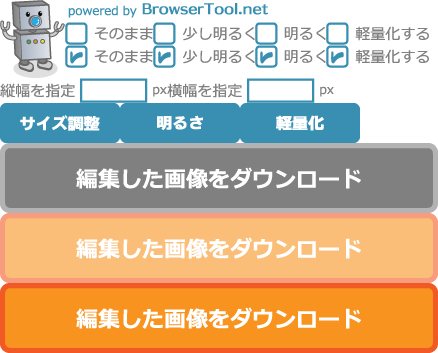
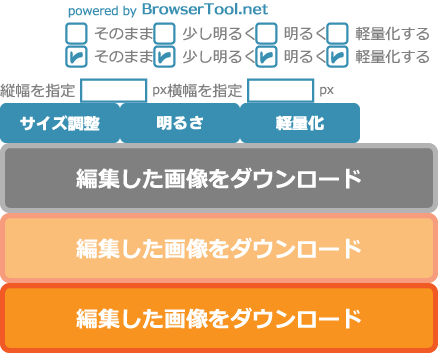
ロゴ変更

Changed region(s): [[0.0, 0.0, 0.1484, 0.2181]]

diff --git a/Image/Content/Css/Home/Index.min.css b/Image/Content/Css/Home/Index.min.css
@@ -1,1 +1,1 @@
-body,header,h1,h2,section,p,footer{margin:0;padding:0}.bg{background-image:url("../../Images/Home/images.png");background-repeat:no-repeat}body{border:20px solid #388eb1;border-width:20px 0 0}header{margin:0 0 50px;padding:0;background-color:#4dbcea}header div{width:640px;height:105px;margin:0 auto;position:relative}h1{position:absolute;top:45px;left:80px;color:#fff;font-size:24px}#logo{position:absolute;top:20px;left:10px;width:65px;height:78px}#powerdby{position:absolute;bottom:5px;right:10px;background-position:-65px 0;width:207px;height:22px}#tool_wrap{width:640px;margin:0 auto}#option_01{margin-bottom:30px}#option_01_title{display:inline-block;width:120px;height:40px;background-position:0 -103px}#size_no_change{background-position:-65px -45px;width:88px;height:23px;display:inline-block;margin:0 0 6px 30px;cursor:pointer;overflow:hidden}#size_no_change input{cursor:pointer;opacity:0}.textbox_wrap{position:relative;display:inline-block;width:167px;height:25px;margin:0 0 5px 25px}#textbox_width{background-position:-167px -78px}#textbox_height{background-position:0 -78px}.textbox_wrap input{position:absolute;top:3px;right:22px;width:60px;height:17px;line-height:17px;text-align:center;border:none;background-color:none}#option_02{margin-bottom:30px}#option_02_title{display:inline-block;width:120px;height:40px;background-position:-120px -103px}.gamma_radio{height:23px;display:inline-block;cursor:pointer;overflow:hidden}.gamma_radio input{cursor:pointer;opacity:0}#gamma_radio_01{margin:0 0 6px 30px;width:88px;background-position:-65px -45px}#gamma_radio_02{margin:0 0 6px 60px;width:102px;background-position:-153px -22px}#gamma_radio_03{margin:0 0 6px 55px;width:71px;background-position:-255px -22px}#option_03{margin-bottom:30px}#option_03_title{display:inline-block;width:120px;height:40px;background-position:-240px -103px}.quality_radio{height:23px;display:inline-block;cursor:pointer;overflow:hidden}.quality_radio input{cursor:pointer;opacity:0}#quality_radio_01{margin:0 0 6px 30px;width:88px;background-position:-65px -45px}#quality_radio_02{margin:0 0 6px 60px;width:103px;background-position:-326px -22px}#file_drop_area{position:relative;width:640px;height:370px;background-image:url("../../Images/Home/droparea.png");margin:0 0 50px}#file_drop_area input{display:none}#dammy_input{position:absolute;width:110px;height:30px;background-color:#fff;top:265px;left:260px;opacity:0;cursor:pointer}#dammy_input:hover{opacity:.2}#progress_wrap{position:absolute;top:0;left:0;width:640px;height:370px;background-color:rgba(255,255,255,.8);display:none}#progress_wrap p{position:absolute;top:140px;left:255px;text-align:center;width:100px;padding:10px;font-weight:bold;font-size:22px;color:#333}#progress_bar{position:absolute;top:50%;left:70px;width:500px;height:5px;background-color:#bde8df}#progress_bar span{position:absolute;top:0;left:0;display:block;background-color:#4dbcea;width:0;height:5px}#download_button{border:none;background-position:0 -143px;width:438px;height:70px;margin:0 auto 50px;display:block}#wait_create_files_mask{position:fixed;top:0;left:0;width:100%;height:100%;background-color:rgba(0,0,0,.8);display:none}#wait_create_files{z-index:10000;position:absolute;text-align:center;font-size:22px;top:50%;left:50%;width:500px;height:100px;line-height:100px;margin:-50px 0 0 -250px;background-color:rgba(255,255,255,.2);border:1px solid #aaa;color:#fff;box-shadow:0 0 10px rgba(0,0,0,.7)}#flow_wrap{text-align:center;background-color:#bde8df;padding:0 0 30px;display:block}#flow_wrap img{display:block;margin:0 auto}h2{padding:30px 0;font-size:24px;color:#388eb1}footer{background-color:#388eb1;padding:40px 0;font-size:12px;color:#fff;line-height:16px}footer div{width:640px;margin:0 auto}
[1 lines of base64/hex data omitted]

diff --git a/Image/Content/Css/Home/Index.css b/Image/Content/Css/Home/Index.css
@@ -23,7 +23,7 @@ header {
 
     header div {
         width: 640px;
-        height: 105px;
+        height: 110px;
         margin: 0 auto;
         position: relative;
     }
@@ -31,17 +31,18 @@ header {
 h1 {
     position: absolute;
     top: 45px;
-    left: 80px;
+    left: 110px;
     color: #fff;
     font-size: 24px;
 }
 
 #logo {
     position: absolute;
-    top: 20px;
-    left: 10px;
-    width: 65px;
-    height: 78px;
+    top: 5px;
+    left: 5px;
+    width: 100px;
+    height: 100px;
[1 lines of base64/hex data omitted]
 }
 
 #powerdby {
@@ -286,6 +287,7 @@ h1 {
     height: 70px;
     margin: 0 auto 50px;
     display: block;
+    background-color: #fff;
 }
 
 /* #endregion */

diff --git a/Image/index.html b/Image/index.html
@@ -10,7 +10,7 @@
     <header>
         <div>
             <h1>画像一括軽量化・サイズ変更・明るさ調整ツール</h1>
-            <div id="logo" class="bg"></div>
+            <div id="logo"></div>
             <div id="powerdby" class="bg"></div>
         </div>
     </header>
@@ -66,12 +66,10 @@
         </div>
     </footer>
     <script src="//ajax.googleapis.com/ajax/libs/jquery/1.11.0/jquery.min.js"></script>
-
+    <script src="Scripts/Home/Home.min.js"></script>
     <!--<script src="Scripts/Home/jszip.min.js"></script>
     <script src="Scripts/Home/FileSaver.min.js"></script>
     <script src="Scripts/Home/canvas-toBlob.min.js"></script>
     <script src="Scripts/Home/Index.min.js"></script>-->
-
-    <script src="Scripts/Home/Home.min.js"></script>
 </body>
 </html>
